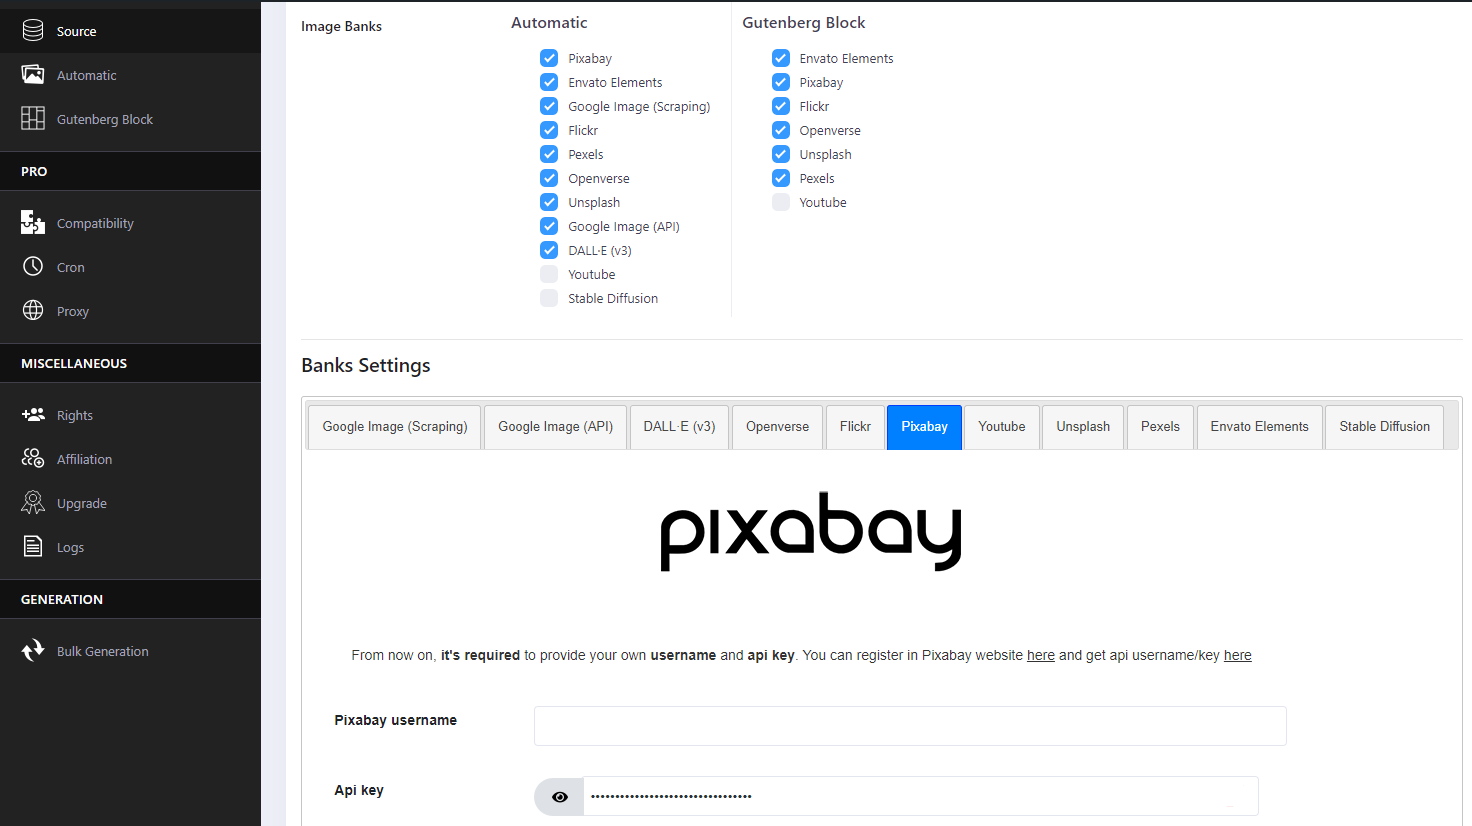
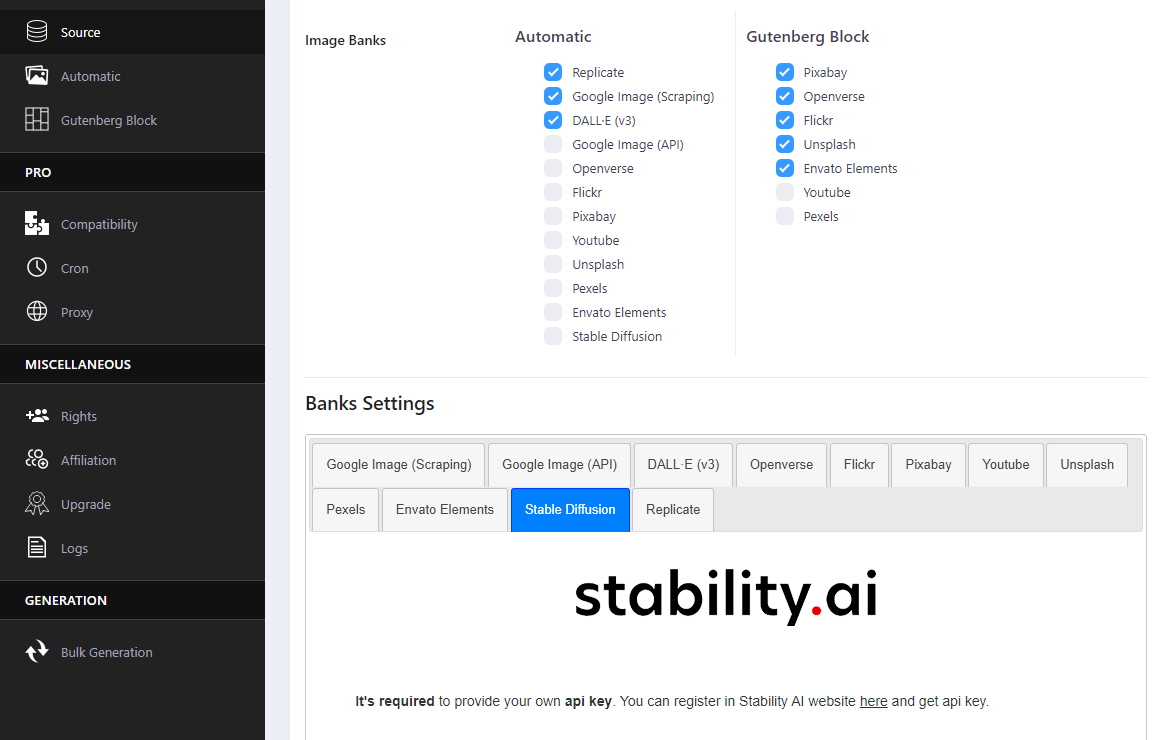
6.1.0

diff --git a/magic-post-thumbnail/admin/js/source.js b/magic-post-thumbnail/admin/js/source.js
@@ -131,6 +131,53 @@ document.addEventListener("DOMContentLoaded", function() {
 
 
 
+// Replicate
+document.addEventListener("DOMContentLoaded", function() {
+    const btnReplicate    = document.getElementById("btnReplicate");
+    const resultReplicate = document.getElementById("resultReplicate");
+    const apiKeyInput     = document.querySelector('input[name="MPT_plugin_banks_settings[replicate][apikey]"]');
+    const imageReplicate  = document.querySelector("#resultReplicate img");
+
+    btnReplicate.addEventListener("click", function() {
+        // show spinner while testing
+        imageReplicate.classList.remove("hidden");
+
+        // send AJAX request to test Replicate API key
+        fetch(apisTestingAjax.ajaxurl, {
+            method: "POST",
+            headers: { "Content-Type": "application/x-www-form-urlencoded" },
+            body: new URLSearchParams({
+                action:  "test_apis",
+                apibank: "replicate",
+                nonce:   apisTestingAjax.nonce,
+                apikey:  apiKeyInput.value
+            })
+        })
+        .then(response => response.json())
+        .then(data => {
+            // parse the JSON string we got back
+            const parsed = JSON.parse(data.data);
+
+            // check for a non-empty 'results' array
+            if ( data.success && parsed.results && parsed.results.length > 0 ) {
+                resultReplicate.innerHTML = '<span class="text-success">' + apisTestingAjax.successful_testing + '</span>';
+            } else {
+                resultReplicate.innerHTML = '<span class="text-warning">' + apisTestingAjax.error_key + '</span>';
+            }
+        })
+        .catch(error => {
+            // network or unexpected error
+            resultReplicate.innerHTML = '<span class="text-warning">' 
+                + apisTestingAjax.error_key + ' or ' 
+                + apisTestingAjax.error_testing + '</span>';
+        });
+    });
+});
+
+
+
+
+
 
 // Youtube
 document.addEventListener("DOMContentLoaded", function() {

diff --git a/magic-post-thumbnail/admin/js/magic-post-thumbnail-admin.js b/magic-post-thumbnail/admin/js/magic-post-thumbnail-admin.js
@@ -686,6 +686,7 @@ jQuery(document).ready(function() {
     hideAPIKey("#password-pixabay");
     hideAPIKey("#password-dalle");
     hideAPIKey("#password-stability");
+    hideAPIKey("#password-replicate");
     hideAPIKey("#password-youtube");
     hideAPIKey("#password-pexels");
     hideAPIKey("#password-envato");

diff --git a/magic-post-thumbnail/admin/class-magic-post-thumbnail-generation.php b/magic-post-thumbnail/admin/class-magic-post-thumbnail-generation.php
@@ -1124,12 +1124,15 @@ class Magic_Post_Thumbnail_Generation extends Magic_Post_Thumbnail_Admin {
                     'Authorization' => 'Bearer ' . $api_key,
                 ),
                 'body'        => json_encode( array(
-                    "model"  => "dall-e-3",
-                    "prompt" => $search,
-                    "n"      => 1,
-                    "size"   => $img_size,
+                    "model"   => "dall-e-3",
+                    "style"   => "vivid",
+                    "quality" => 'hd',
+                    "prompt"  => 'Photorealistic image of ' . $search,
+                    "n"       => 1,
+                    "size"    => $img_size,
                 ) ),
             );
+        } elseif ( isset( $img_block['api_chosen'] ) && $img_block['api_chosen'] === 'replicate' ) {
         } elseif ( $img_block['api_chosen'] == 'stability' ) {
         } elseif ( $img_block['api_chosen'] == 'flickr' ) {
             $api_key = '63d9c292b9e2dfacd3a73908779d6d6f';
@@ -1280,6 +1283,45 @@ class Magic_Post_Thumbnail_Generation extends Magic_Post_Thumbnail_Admin {
         $log->info( 'Source used', array(
             'Service' => $service,
         ) );
+        // ── INSERT REPLICATE POLLING HERE ────────────────────────────────────────
+        if ( $service === 'replicate' ) {
+            // extract prediction ID and status URL
+            $predictionId = $result_body['id'];
+            $getUrl = $result_body['urls']['get'];
+            // retrieve API token from settings
+            $options = wp_parse_args( get_option( 'MPT_plugin_banks_settings' ), $this->MPT_default_options_banks_settings( true ) );
+            $apiToken = ( !empty( $options['replicate']['apikey'] ) ? $options['replicate']['apikey'] : '' );
+            // poll until prediction is complete
+            do {
+                usleep( 500000 );
+                // wait 0.5s
+                $resp = wp_remote_get( $getUrl, array(
+                    'headers' => array(
+                        'Authorization' => 'Token ' . $apiToken,
+                        'Content-Type'  => 'application/json',
+                    ),
+                    'timeout' => 10,
+                ) );
+                // DEBUG
+                /*
+                			$log->info( 'Replicate polling status', [
+                				'http_code' => wp_remote_retrieve_response_code( $resp ),
+                				'body'      => substr( wp_remote_retrieve_body( $resp ), 0, 100 ) // Start of JSON
+                			] );*/
+                if ( is_wp_error( $resp ) ) {
+                    return false;
+                }
+                $body = json_decode( wp_remote_retrieve_body( $resp ), true );
+                $status = $body['status'] ?? '';
+            } while ( in_array( $status, array('starting', 'processing'), true ) );
+            // on success, replace output so subsequent logic sees the final URL
+            if ( $status === 'succeeded' && !empty( $body['output'][0] ) ) {
+                $result_body['output'] = $body['output'];
+            } else {
+                return false;
+            }
+        }
+        // ── END OF REPLICATE POLLING ────────────────────────────────────────────
         if ( $service == 'google_image' ) {
             $loop_results = $result_body['items'];
             // TODO : Check if urls are real images or just redirections
@@ -1315,6 +1357,9 @@ class Magic_Post_Thumbnail_Generation extends Magic_Post_Thumbnail_Admin {
         } elseif ( $service == 'envato' ) {
             $loop_results = $result_body['results']['search_query_result']['search_payload']['items'];
             $url_path = 'humane_id';
+        } elseif ( $service == 'replicate' ) {
+            $loop_results = ( isset( $result_body['output'] ) ? (array) $result_body['output'] : array() );
+            $url_path = null;
         } else {
             return false;
         }
@@ -1368,7 +1413,9 @@ class Magic_Post_Thumbnail_Generation extends Magic_Post_Thumbnail_Admin {
                 if ( 'image' != $fetch_result_key && $service == 'stability' ) {
                     continue;
                 }
-                if ( $service != 'stability' ) {
+                if ( $service == 'replicate' ) {
+                    $url_result = $fetch_result;
+                } elseif ( $service !== 'stability' ) {
                     $url_result = $fetch_result[$url_path];
                 }
                 // Change default url image
@@ -1386,6 +1433,9 @@ class Magic_Post_Thumbnail_Generation extends Magic_Post_Thumbnail_Admin {
                         'revised_prompt' => $fetch_result['revised_prompt'],
                     ) );
                 } elseif ( $service == 'stability' ) {
+                    $url_result = $fetch_result;
+                } elseif ( $service == 'replicate' ) {
+                    // For replicate, $fetch_result is already the final URL
                     $url_result = $fetch_result;
                 } else {
                     $url_result = $fetch_result[$url_path];
@@ -1529,7 +1579,7 @@ class Magic_Post_Thumbnail_Generation extends Magic_Post_Thumbnail_Admin {
      * @since    4.0.0
      */
     private function MPT_get_results( $service, $url, $url_parameters ) {
-        if ( $service == 'dallev1' || $service == 'stability' || $service == 'pexels' ) {
+        if ( $service == 'dallev1' || $service == 'stability' || $service == 'pexels' || $service == 'replicate' ) {
             $defaults = $url_parameters;
         } else {
             /* Retrieve 3 images as result */
@@ -1566,15 +1616,17 @@ class Magic_Post_Thumbnail_Generation extends Magic_Post_Thumbnail_Admin {
             );
         } else {
             $result_body = json_decode( $result['body'], true );
+            $log = $this->MPT_monolog_call();
             // Dall-e: Catch the error
             if ( $service == 'dallev1' && $result_body['error']['message'] ) {
                 //error_log( print_r( $result, true ) );
-                $log = $this->MPT_monolog_call();
                 $log->info( 'Problem with Dalle', array(
                     'Error message' => $result_body['error']['message'],
                 ) );
             }
-            if ( $result['response']['code'] != '200' ) {
+            // accept 200 for most services, 201 for replicate
+            $code = intval( $result['response']['code'] );
+            if ( $service === 'replicate' && $code !== 201 || $service !== 'replicate' && $code !== 200 ) {
                 return false;
             }
         }

diff --git a/magic-post-thumbnail/admin/class-magic-post-thumbnail-admin.php b/magic-post-thumbnail/admin/class-magic-post-thumbnail-admin.php
@@ -775,6 +775,7 @@ class Magic_Post_Thumbnail_Admin {
             esc_html__( 'Pexels', 'mpt' )                  => array('pexels', false),
             esc_html__( 'Envato Elements', 'mpt' )         => array('envato', false),
             esc_html__( 'Stable Diffusion', 'mpt' )        => array('stability', false),
+            esc_html__( 'Replicate', 'mpt' )               => array('replicate', false),
         );
         return $list_api_auto;
     }
@@ -884,6 +885,11 @@ class Magic_Post_Thumbnail_Admin {
                 'model'         => 'sd3.5-large-turbo',
                 'aspect_ratio'  => '16:9',
                 'output_format' => 'jpeg',
+            ),
+            'replicate'         => array(
+                'apikey'        => '',
+                'model'         => 'black-forest-labs/flux-schnell',
+                'output_format' => 'webp',
             ),
             'cc_search'         => array(
                 'source'       => 1,
@@ -1203,6 +1209,7 @@ class Magic_Post_Thumbnail_Admin {
         check_ajax_referer( 'api_testing_nonce', 'nonce' );
         $apiKey = sanitize_text_field( $_POST['apikey'] );
         $apiBank = sanitize_text_field( $_POST['apibank'] );
+        $response = '';
         if ( 'pixabay' === $apiBank ) {
             $apiUrl = "https://pixabay.com/api/?key=" . $apiKey . "&q=exemple";
             $response = wp_remote_get( $apiUrl );
@@ -1238,17 +1245,32 @@ class Magic_Post_Thumbnail_Admin {
                     'Authorization' => $apiKey,
                 ),
             ) );
-        } elseif ( 'envato' === $apiBank ) {
-            $url = 'https://api.extensions.envato.com/extensions/user_info';
-            $response = wp_remote_get( $url, array(
-                'headers' => array(
-                    "Extensions-Extension-Id" => md5( get_site_url() ),
-                    "Extensions-Token"        => $apiKey,
-                    "Content-Type"            => "application/json",
-                ),
-            ) );
+        } elseif ( 'replicate' === $apiBank ) {
+            // test Replicate API key by listing models
+            $apiUrl = 'https://api.replicate.com/v1/models';
+            $response = wp_remote_get( $apiUrl, [
+                'headers' => [
+                    'Authorization' => 'Token ' . $apiKey,
+                    'Content-Type'  => 'application/json',
+                ],
+                'timeout' => 10,
+            ] );
+            // Handle HTTP error
+            if ( is_wp_error( $response ) ) {
+                wp_send_json_error( 'Error connecting to Replicate API.' );
+            }
+            // Check status code for unauthorized vs ok
+            $code = wp_remote_retrieve_response_code( $response );
+            if ( 200 === $code ) {
+                wp_send_json_success( wp_remote_retrieve_body( $response ) );
+            } elseif ( 401 === $code ) {
+                wp_send_json_error( 'unauthorized', 401 );
+            } else {
+                wp_send_json_error( 'Unexpected status: ' . $code, $code );
+            }
         } else {
             $response = '';
+            wp_send_json_error( 'Unknown API bank: ' . $apiBank );
         }
         if ( is_wp_error( $response ) ) {
             wp_send_json_error( 'Error connecting to the API.' );

diff --git a/magic-post-thumbnail/magic-post-thumbnail.php b/magic-post-thumbnail/magic-post-thumbnail.php
@@ -10,7 +10,7 @@
  * Plugin Name:       Magic Post Thumbnail
  * Plugin URI:        http://wordpress.org/plugins/magic-post-thumbnail/
  * Description:       Add stunning images to your posts effortlessly, as featured images or within content. Magic Post Thumbnail sources them automatically from multiple image banks.
- * Version:           6.0.8
+ * Version:           6.1.0
  * Author:            Magic Post Thumbnail
  * Author URI:        https://magic-post-thumbnail.com/
  * License:           GPL-2.0+
@@ -72,7 +72,7 @@ if ( function_exists( 'mpt_freemius' ) ) {
      * Start at version 1.0.0 and use SemVer - https://semver.org
      * Rename this for your plugin and update it as you release new versions.
      */
-    define( 'MAGIC_POST_THUMBNAIL_VERSION', '6.0.8' );
+    define( 'MAGIC_POST_THUMBNAIL_VERSION', '6.1.0' );
     /**
      * The code that runs during plugin activation.
      * This action is documented in includes/class-magic-post-thumbnail-activator.php
